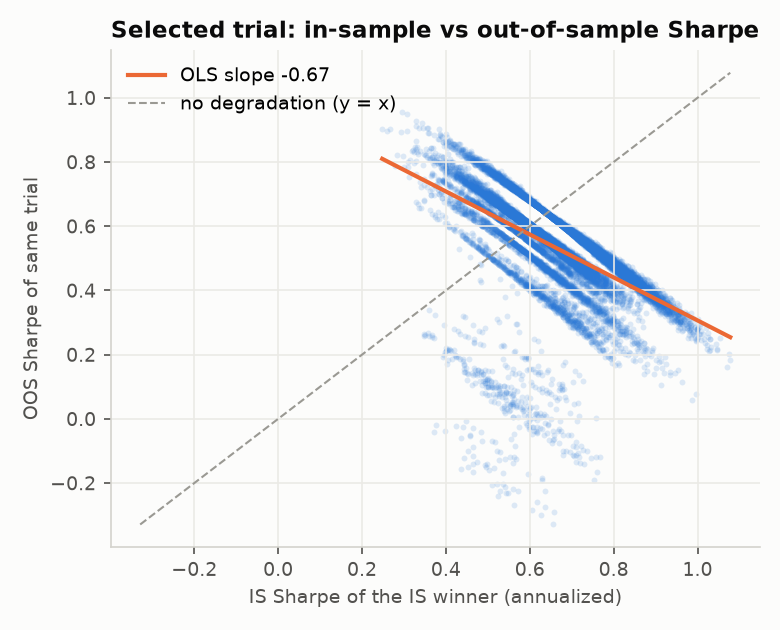
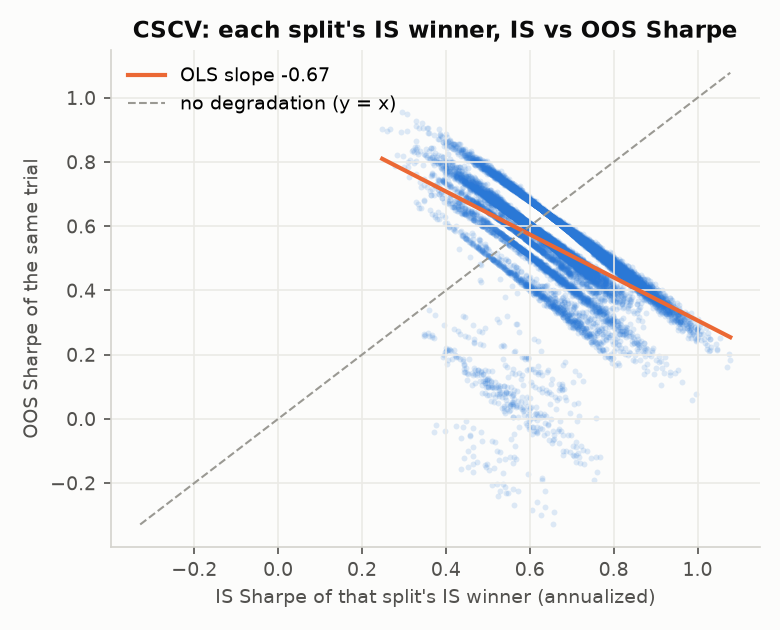
Rerun with the fixed grid and null; rewrite README findings
- 112 trials (mirror reversal lookback removed), 200 permutations with only
  evaluation months shuffled, no-vol-targeting ablation.
- README: narrower claim than "the signal is real", pseudo out-of-sample
  wording, bootstrap CI marked as conditional on the choice, DSR table with
  all four Var[SR]/N variants, IS/OOS slope sourced from summary.json,
  2017 citation for the PBO paper, data vintage and sha256 note.

Changed region(s): [[0.1231, 0.0302, 0.9846, 0.0603], [0.2769, 0.9349, 0.8308, 0.9651], [0.0308, 0.2413, 0.0615, 0.6937]]

diff --git a/README.md b/README.md
@@ -1,6 +1,6 @@
 # backtest-overfit
 
-How much of a good backtest is luck? This repo backtests 118 parameterizations of four
+How much of a good backtest is luck? This repo backtests 112 parameterizations of four
 textbook strategy families (time-series momentum, cross-sectional momentum, short-term
 reversal, moving-average crossovers) on the 49 Kenneth French industry portfolios,
 picks the best one, and then runs the standard overfitting diagnostics on that choice:
@@ -15,44 +15,63 @@ Report page: https://adleraaa.github.io/backtest-overfit/
 ## Finding
 
 The backtest winner is industry momentum (12-month lookback, top/bottom 20%, 12-month
-volatility window), with a net Sharpe ratio of 0.68 over 1969-07 to 2026-08. The signal
-is real: on month-shuffled data the best of the same 118 trials averaged 0.25 and never
-went above 0.57 in 200 shuffles (p = 0.005), and PBO is only 0.02. The *size* of that
-Sharpe ratio is still inflated by selection. The same selection rule, run walk-forward
-(pick the trailing 10-year winner each year), earned 0.36 out of sample, compared with
-0.57 for the hindsight winner over the same months. The winner's own Sharpe ratio also
-fell from 0.90 in the first half of the sample to 0.46 in the second. The Deflated Sharpe
-Ratio does not give a stable answer here. It ranges from 0.01 to 0.995 depending on which
-variance of trial Sharpe ratios you plug in (see Design decisions).
+volatility window), with a net Sharpe ratio of 0.68 over 1969-07 to 2026-08. The grid's best
+Sharpe is far above what the same grid finds on month-shuffled data: there the best of the
+112 trials averaged 0.22 and reached at most 0.54 in 200 shuffles
+(p = 0.005). Shuffling also destroys the volatility clustering that volatility
+targeting uses, so part of the 0.68 is vol timing: without it the same signal earns
+0.52 (still the best of the 56 unscaled signals), against a shuffled
+best-of-56 mean of 0.20 and max of 0.50 (p = 0.005).
+PBO is 0.024. This rules out "no time-series
+predictability at all"; it does not show the effect is new (industry momentum was
+published in 1999). The *size* of the Sharpe ratio is inflated by selection: the same
+selection rule run walk-forward (pick the trailing 10-year winner each year) earned
+0.36 pseudo out-of-sample, against 0.57 for the hindsight winner over the same
+months, and the winner's own Sharpe fell from 0.90 in the first half of the sample to
+0.46 in the second. The Deflated Sharpe Ratio is 0.89 with sign-aligned families and
+all 112 trials counted as independent, a conservative choice (see Design decisions). The
+literal paper recipe gives 0.049, mostly because the losing reversal family, which is
+sign-flipped momentum, is counted as spread between trials.
 
 ## Results
 
 All numbers come from `results/summary.json`, `results/trials.csv` and
-`results/walk_forward_selections.csv`, written by `scripts/run_experiment.py`.
-Returns are monthly and net of 10 bps per unit of turnover. Every trial is scaled to a
-10% annualized volatility target. The evaluation window is 686 months (1969-07 to
-2026-08), and data from 1963-07 onward is used as signal warm-up. Data vintage: "202608
-CRSP database". The full run (200 permutations) took 621 s on an Intel
-i9-14900HX laptop.
+`results/walk_forward_selections.csv`, written by `scripts/run_experiment.py` with its
+default settings. Returns are monthly and net of 10 bps per unit of turnover. Every
+trial is scaled to a 10% annualized volatility target unless stated otherwise. The
+evaluation window is 686 months (1969-07 to 2026-08), and data from 1963-07 onward is
+used as signal warm-up. Data vintage: "202608 CRSP database" (the sha256 of each
+downloaded zip is in `summary.json["meta"]`; the library revises history monthly, so a
+later download gives slightly different numbers). The full run (200 permutations)
+took 899 s on an Intel i9-14900HX laptop (CPU only).
 
 **Selected strategy vs. what to expect**
 
 | Measure | Value |
 |---|---|
 | Selected trial | `xsmom(lookback=12,skip=0,quantile=0.2)\|vol12` |
-| Net Sharpe, full sample (in-sample) | 0.68 (95% block-bootstrap CI 0.41 to 0.95) |
+| Net Sharpe, full sample (in-sample) | 0.68 (95% block-bootstrap CI 0.41 to 0.95, conditional on this trial; not a post-selection interval) |
 | Ann. return / vol / max drawdown | 8.1% / 11.9% / -34.7% |
 | Sharpe 1969-07 to 1998-01 / 1998-02 to 2026-08 | 0.90 / 0.46 |
-| Best-of-grid Sharpe on shuffled months: mean / 95th pct / max (200 shuffles) | 0.25 / 0.42 / 0.57 |
-| Permutation p-value | 0.005 (= 1/201, the smallest possible with 200 shuffles) |
-| PBO (CSCV, 16 blocks, 12,870 splits) | 0.023 |
+| Best-of-grid Sharpe on shuffled months: mean / 95th pct / max (200 shuffles) | 0.22 / 0.39 / 0.54 |
+| Permutation p-value | 0.005 |
+| Same signal without vol targeting | 0.52 |
+| Best-of-56 unscaled signals on shuffled months: mean / 95th pct / max | 0.20 / 0.35 / 0.50 (p = 0.005) |
+| PBO (CSCV, 16 blocks, 12,870 splits) | 0.024 |
 | CSCV median Sharpe of the IS winner: IS / OOS | 0.66 / 0.54 |
 | Walk-forward OOS Sharpe (10y train, 1y test, 566 months) | 0.36 (95% CI 0.05 to 0.68) |
 | Hindsight winner over the same 566 months | 0.57 |
-| Equal weight of all 118 trials, same months | 0.26 |
+| Equal weight of all 112 trials, same months | 0.30 |
 | Probabilistic Sharpe Ratio vs 0 | 1.000 |
-| Deflated Sharpe, cross-trial Var[SR] (E[max SR] = 0.99) | 0.011 |
-| Deflated Sharpe, no-signal Var[SR] from shuffles (E[max SR] = 0.33) | 0.995 |
+
+**Deflated Sharpe Ratio under different Var[SR] and N**
+
+| Var[SR] from | N | Std of trial SR (ann.) | E[max SR] (ann.) | DSR |
+|---|---|---|---|---|
+| Raw trial Sharpes (paper recipe) | 112.0 | 0.35 | 0.90 | 0.049 |
+| Sign-aligned families (headline) | 112.0 | 0.20 | 0.51 | 0.893 |
+| Sign-aligned, effective N | 3.1 | 0.20 | 0.18 | 1.000 |
+| No-signal variance from shuffles | 112.0 | 0.13 | 0.34 | 0.994 |
 
 **Alpha (OLS, Newey-West t-stats, 6 lags for the full sample and 5 for walk-forward)**
 
@@ -68,19 +87,20 @@ i9-14900HX laptop.
 | Cross-sectional momentum | 48 | 0.68 | 0.38 | 0.02 |
 | Time-series momentum | 14 | 0.39 | 0.21 | 0.32 |
 | Moving-average crossover | 38 | 0.36 | 0.22 | 0.34 |
-| Short-term reversal | 18 | -0.49 | -0.65 | 0.06 |
+| Short-term reversal | 12 | -0.52 | -0.74 | 0.01 |
 
 Other results:
 
-- Transaction costs: the selected trial's Sharpe is 0.76 at 0 bps, 0.68 at 10 bps, 0.56
-  at 25 bps and 0.37 at 50 bps.
-- Deflated Sharpe with the paper's cross-trial variance, as a function of the number of
-  trials N: 1.000 (N=1), 0.980 (4), 0.719 (10), 0.204 (30), 0.011 (118).
-- Industry "reversal" loses money in every variant (Sharpe -0.49 to -0.88). At the
-  industry level, the recent-return effect is continuation, the opposite of the one-month
-  reversal known for individual stocks. This matches Moskowitz and Grinblatt (1999).
-- Walk-forward picked 18 distinct trials across 48 windows: cross-sectional momentum 75%
-  of the time, MA crossover 23%, time-series momentum 2%.
+- Transaction costs: the selected trial's Sharpe is 0.76 at 0 bps, 0.68 at 10 bps, 0.56 at 25 bps and 0.37 at 50 bps.
+- Deflated Sharpe with the sign-aligned variance, as a function of the number of trials
+  N: 1.000 (N=1), 1.000 (N=4), 0.997 (N=10), 0.976 (N=30), 0.893 (N=112).
+- The largest absolute correlation between any two trials is 0.98
+  (`selected.max_abs_corr_between_trials`).
+- Industry "reversal" loses money in every variant (Sharpe -0.52 to -0.88).
+  At the industry level, the recent-return effect is continuation, the opposite of the
+  one-month reversal known for individual stocks. This matches Moskowitz and Grinblatt
+  (1999).
+- Walk-forward picked 18 distinct trials across 48 windows: cross-sectional momentum 75%, moving-average crossover 23%, time-series momentum 2%.
 
 ![Sharpe distribution](results/figures/sharpe_distribution.png)
 ![Permutation null](results/figures/permutation_null.png)
@@ -88,26 +108,29 @@ Other results:
 ![CSCV logits](results/figures/pbo_logits.png)
 ![IS vs OOS](results/figures/is_vs_oos.png)
 
-The IS-vs-OOS scatter has a negative slope (-0.67). This is partly mechanical in CSCV:
-the in-sample and out-of-sample halves are complements of one fixed sample, so a trial
-that looks unusually good in one half must look worse in the other.
+In the last figure each point is one CSCV split: the IS Sharpe of that split's IS winner
+(which changes from split to split) against its OOS Sharpe. The OLS slope is -0.67
+(`pbo.is_oos_slope`). This is partly mechanical in CSCV: the in-sample and out-of-sample
+halves are complements of one fixed sample, so a trial that looks unusually good in one
+half must look worse in the other.
 
 ## Architecture
 
 ```
-data.py        download + cache French library zips, parse the monthly table
+data.py        download + cache French library zips (checked to be zips), parse table
    |
 strategies.py  returns (T x N) -> target weights; row t uses data up to t only
    |
 backtest.py    hold weights of t during t+1; vol targeting; costs on turnover
    |
-grid.py        59 signal specs x 2 vol windows = 118 trials
+grid.py        56 signal specs x 2 vol windows = 112 trials (no mirror-image pairs)
    |
 study.py       run grid -> trial return matrix -> select in-sample best, then:
-   |             metrics.py  Sharpe, PSR, DSR, E[max SR], block bootstrap CI
+   |             metrics.py  Sharpe, PSR, DSR, E[max SR], effective N, block bootstrap CI
    |             overfit.py  CSCV/PBO, walk-forward selection
    |             factors.py  FF3/FF5 alpha, Newey-West
-   |             permutation null (re-run grid on month-shuffled data)
+   |             permutation null (grid re-run on data with evaluation months shuffled),
+   |             repeated for the 56 signals without vol targeting
    |
 plots.py / report.py   PNG figures, static HTML report for GitHub Pages
 ```
@@ -119,15 +142,16 @@ python -m venv .venv
 source .venv/bin/activate          # Windows: .venv\Scripts\activate
 pip install -e ".[dev]"
 
-pytest                             # 106 tests, synthetic data only, no network
+pytest                             # 116 tests, synthetic data only, no network
 ruff check . && ruff format --check .
 
 python scripts/run_experiment.py   # downloads ~0.5 MB into data/raw/, writes results/
 python -m btoverfit.report         # builds site/index.html from results/
 ```
 
-Use `--permutations 20` for a faster run. This only changes the permutation-null rows and
-the DSR computed with the null variance.
+The default of 200 permutations is what the committed results use. `--permutations 20`
+gives a faster run and changes only the permutation-null numbers and the null-variance
+DSR. `--refresh` re-downloads the cached data files.
 
 ## Design decisions
 
@@ -139,33 +163,43 @@ the DSR computed with the null variance.
   leaky signal is included to show that the check catches it. Another test uses an
   alternating return series, where a backtester without the one-month lag would show
   a perfect record.
+- **No mirror trials, and a sign-aligned DSR.** An earlier version of the grid had
+  `reversal(lookback=3)`, which ranks the negative of the same trailing return that
+  `xsmom(lookback=3, skip=0)` ranks: identical turnover and exactly negated weights
+  (`tests/test_grid.py` checks this). More broadly, the reversal family is sign-flipped
+  short-horizon momentum. Counting a losing family as "spread" inflates the cross-trial
+  Var[SR]: the results committed in c39caa1 had E[max SR] = 0.99 and DSR = 0.011, which
+  I first misread as DSR being unstable ("raw" row above: 0.049 now). The
+  mirror lookback is now excluded (a test asserts no two signals are more than 0.99
+  correlated), and the headline DSR flips families with a negative median Sharpe before
+  taking the variance. It still counts all 112 trials as independent, which overstates N,
+  so it errs low. The effective-N variant (participation ratio of the correlation
+  eigenvalues, 3.1) errs high, because one momentum-like factor dominates the grid.
+- **Month-shuffling null over the evaluation window only.** Permuting whole months keeps
+  each month's cross-section and removes time-series structure. Only months from
+  1969-07 on are shuffled: Hlth has no returns during the 1963-1969 warm-up, and moving
+  those NaN rows into the window would drop it from many lookback windows, so the null
+  would trade a different universe. Shuffling also removes the volatility clustering
+  that vol targeting exploits, so the null is repeated without vol targeting.
 - **Volatility targeting uses only past unscaled P&L.** Warm-up months are NaN, not
   zero. Zeros would shrink the volatility estimate and push every strategy to the
-  leverage cap (5x gross).
+  leverage cap (5x gross). Only the leading warm-up is masked, so a flat month later on
+  does not switch a strategy off for a whole volatility window.
 - **CSCV from block sums.** Each of the 12,870 splits is a sum of per-block sums and
-  sums of squares, so all splits cost two matrix products. A slow loop implementation in
-  the tests checks it exactly.
-- **Two Var[SR] inputs for the DSR.** The paper's estimator uses the spread of Sharpe
-  ratios across trials. Here that spread mostly reflects real differences between
-  families (reversal is strongly negative), which gives E[max SR] = 0.99. Using the
-  no-signal sampling variance from shuffled data gives E[max SR] = 0.33. The empirical
-  best-of-grid under the null averaged 0.25, below 0.33 because the trials are
-  correlated. Both DSRs are reported rather than picking the one that flatters the
-  result.
-- **Month-shuffling null.** Permuting whole months keeps each month's cross-section
-  (correlations, fat tails) and removes all time-series structure. The null therefore
-  asks "could this grid find a Sharpe this high with no predictability at all?" and not
-  whether the result is due to a known factor. The factor question is handled by the
-  alpha regressions.
+  sums of squares, so all splits cost two matrix products (derivation in the
+  `cscv_pbo` docstring). A slow loop implementation in the tests checks it exactly.
 
 ## Limitations
 
 - Transaction costs are a flat bps charge on turnover. They ignore weight drift within
   the month, borrowing costs for shorts, and the fact that industry portfolios are not
   directly tradable (an ETF implementation would have tracking error and fees).
-- The grid (118 trials) is small and was chosen by me. A real research process usually
+- The grid (112 trials) is small and was chosen by me. A real research process usually
   tries more variants, and those extra variants are never logged, which is exactly what
   PBO and DSR are meant to penalize. The reported DSR and PBO describe this grid only.
+- Neither N for the DSR is right: all 112 trials overstates the number of independent
+  ideas and the participation ratio (3.1) likely understates it. A clustering-based
+  count (Lopez de Prado's ONC) would sit in between and is not implemented.
 - The strategy families are well known and published. Selecting momentum in 2026 uses
   knowledge from after 1969, which no in-sample test can remove. The walk-forward result
   only removes the parameter-selection part of that look-ahead.
@@ -185,10 +219,10 @@ statistics are committed under `results/`.
 
 ## References
 
-- Bailey, D., Borwein, J., Lopez de Prado, M., Zhu, Q. (2015). The Probability of Backtest
-  Overfitting. *Journal of Computational Finance* 20(4).
+- Bailey, D., Borwein, J., Lopez de Prado, M., Zhu, Q. (2017). The Probability of Backtest
+  Overfitting. *Journal of Computational Finance* 20(4), 39-69 (SSRN working paper 2015).
 - Bailey, D., Lopez de Prado, M. (2014). The Deflated Sharpe Ratio. *Journal of Portfolio
-  Management* 40(5).
+  Management* 40(5). `tests/test_metrics.py` reproduces its numerical example.
 - Bailey, D., Lopez de Prado, M. (2012). The Sharpe Ratio Efficient Frontier. *Journal of
   Risk* 15(2).
 - Moskowitz, T., Grinblatt, M. (1999). Do Industries Explain Momentum? *Journal of Finance*
